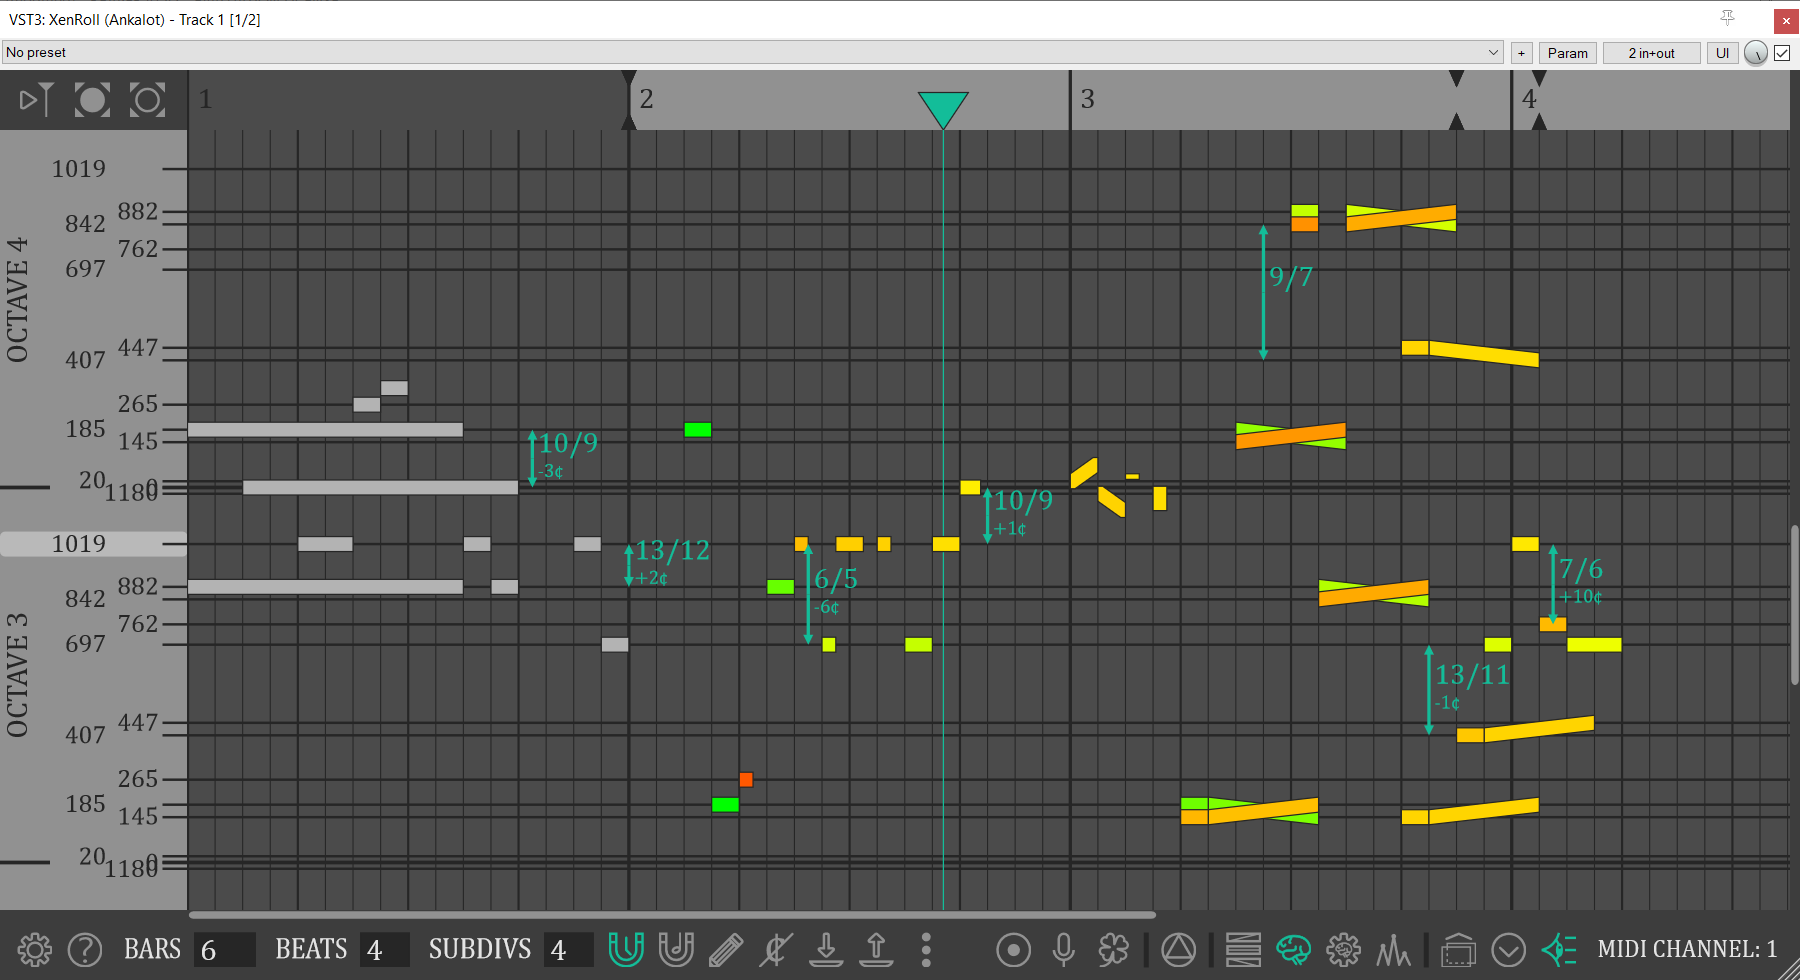
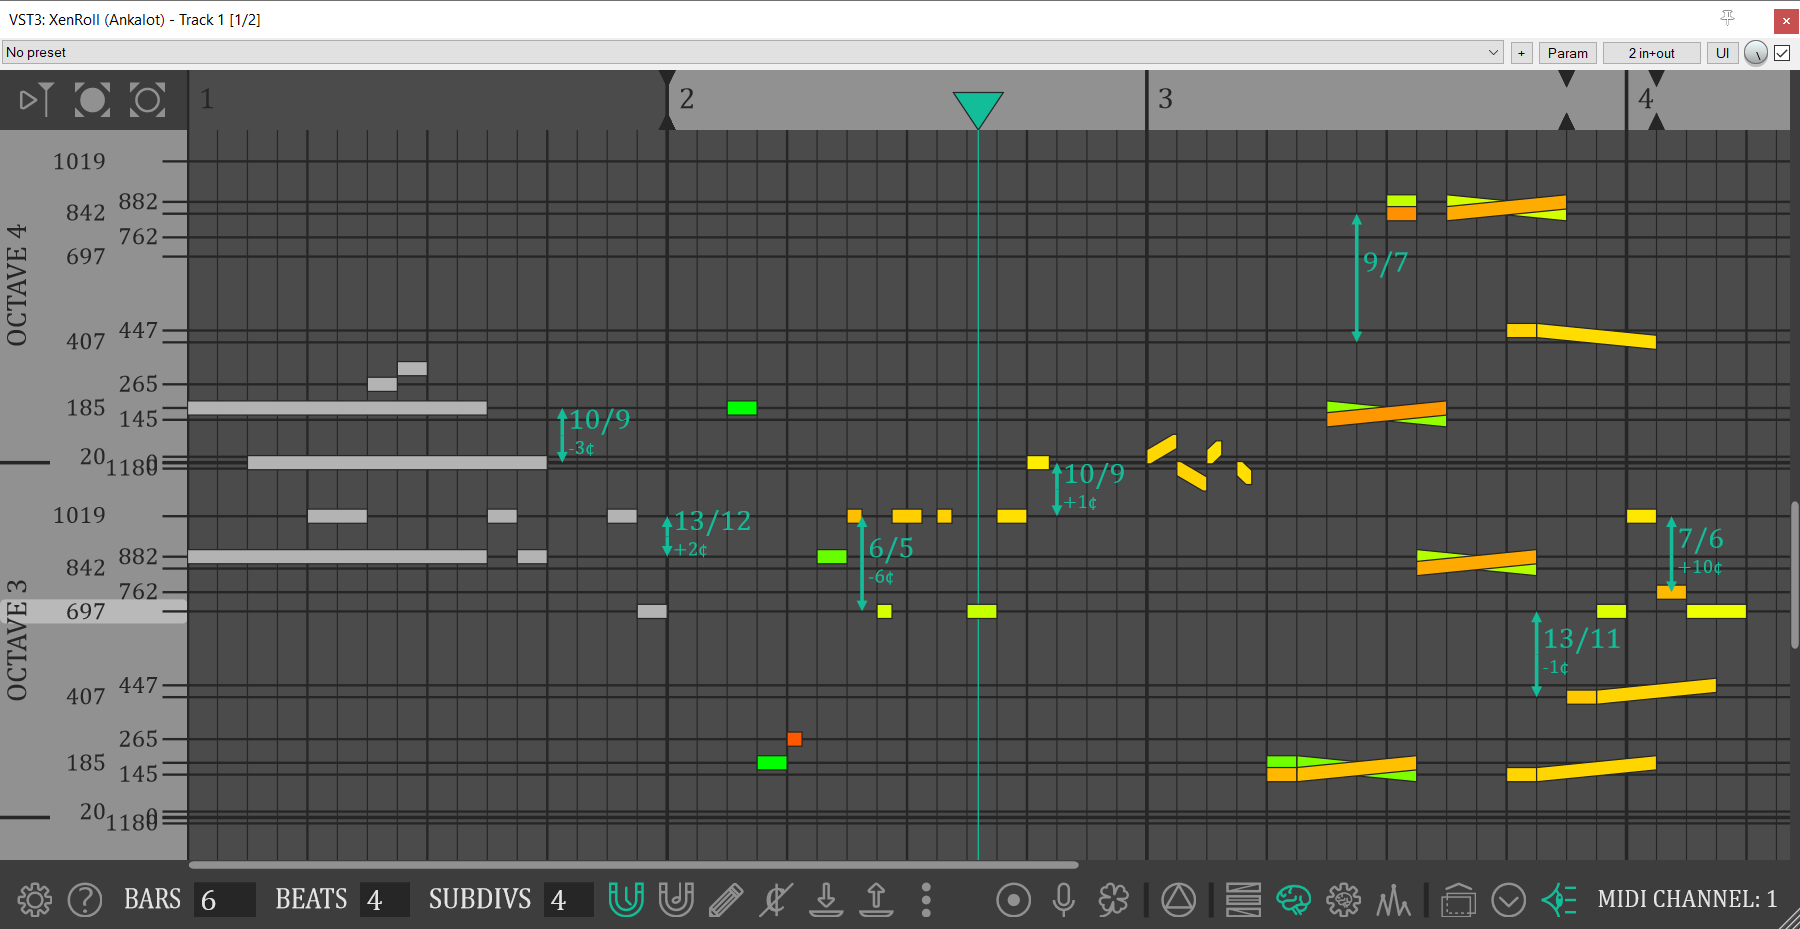
Fixed the display of a short note with positive bend

diff --git a/plugin/source/MainPanel.cpp b/plugin/source/MainPanel.cpp
@@ -1973,11 +1973,19 @@ juce::Path MainPanel::getNotePath(const Note &note) {
         path.closeSubPath();
     } else if (height >= width) {
         // make vertical rectangle
-        path.startNewSubPath(x1, y1 - height / 2);
-        path.lineTo(x2, y1 - height / 2);
-        path.lineTo(x2, y2 + height / 2);
-        path.lineTo(x1, y2 + height / 2);
-        path.closeSubPath();
+        if (y2 > y1) {
+            path.startNewSubPath(x1, y1 - height / 2);
+            path.lineTo(x2, y1 - height / 2);
+            path.lineTo(x2, y2 + height / 2);
+            path.lineTo(x1, y2 + height / 2);
+            path.closeSubPath();
+        } else {
+            path.startNewSubPath(x1, y1 + height / 2);
+            path.lineTo(x2, y1 + height / 2);
+            path.lineTo(x2, y2 - height / 2);
+            path.lineTo(x1, y2 - height / 2);
+            path.closeSubPath();
+        }
     } else {
         // make hexagon
         if (dy > 0) {
